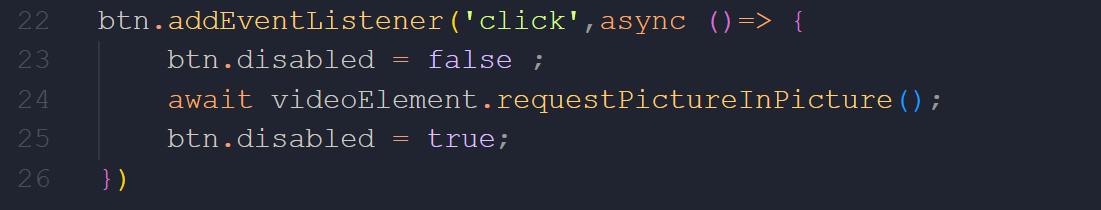
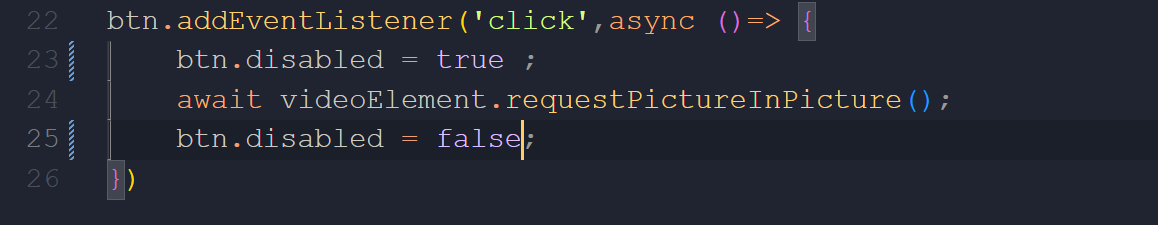
added whole description in readme.md file enjoy!

diff --git a/final/script.js b/final/script.js
@@ -20,7 +20,7 @@ const captureStream =  async()=> {
 captureStream();
 
 btn.addEventListener('click',async ()=> {
-    btn.disabled = false ;
+    btn.disabled = true ;
     await videoElement.requestPictureInPicture();
-    btn.disabled = true;
+    btn.disabled = false;
 })

diff --git a/README.md b/README.md
@@ -1,4 +1,4 @@
-# Picture-in-Picture
+## Picture-in-Picture
 In this project, I will try to develop a picture in picture feature using a picture-in-picture Api .
 
 ****First of all you will see two folders setup and final .
@@ -11,6 +11,15 @@ If you want to start from the begining to the end follow me open your IDE and Fo
 **3-open the index.html file right click and open live server , As you see I have developed the styles.css files so you see a styled webpage in front of you**
 
 **4-Now let's develop the functionality with JS and before going further let's discuss what are we using for the functionality we will use 
-[Mozilla - Screen Capture API](https://developer.mozilla.org/en-US/docs/Web/API/Screen_Capture_API/Using_Screen_Capture) and [Intro to Picture-in-Picture API Article](https:/css-trickscoman-introduction-to-the-picture-in-picture-web-api/) You can read about them but we will be using navigator.mediaDevices.getDisplayMedia() andvideo.requestPictureInPicture()**
+[Mozilla - Screen Capture API](https://developer.mozilla.org/en-US/docs/Web/API/Screen_Capture_API/Using_Screen_Capture) and [Intro to Picture-in-Picture API Article](https:/css-trickscoman-introduction-to-the-picture-in-picture-web-api/) You can read about them but we will be using navigator.mediaDevices.getDisplayMedia() and video.requestPictureInPicture()**
+
 **5-let's start by selecting the video and button by using their id const video = document.getElementById('video')                       const btn = document.getElementById('button')![declare variables](./Capture.PNG)**
-**6-**
+
+**6-Then,we will select media stream , pass to video element then play we will use async/await feature to deal with the promise returning from  navigator.mediaDevices.getDisplayMedia() ![select media stream , pass to video element then play](./Capture2.PNG)**
+
+**7-We need to select the media stream at the start of loading the page so we will call it like in the picture below ![run the function on the loading](./Capture3.PNG)**
+
+**8-we will add an event listener to the button which we will allow the PIP  feature ![event listener](./Capture4.PNG)**
+
+# Note
+you are maybe confused why we disabled the button and then enabled it at the end of the code we want if the PIP doesn't work the button is disabled 
